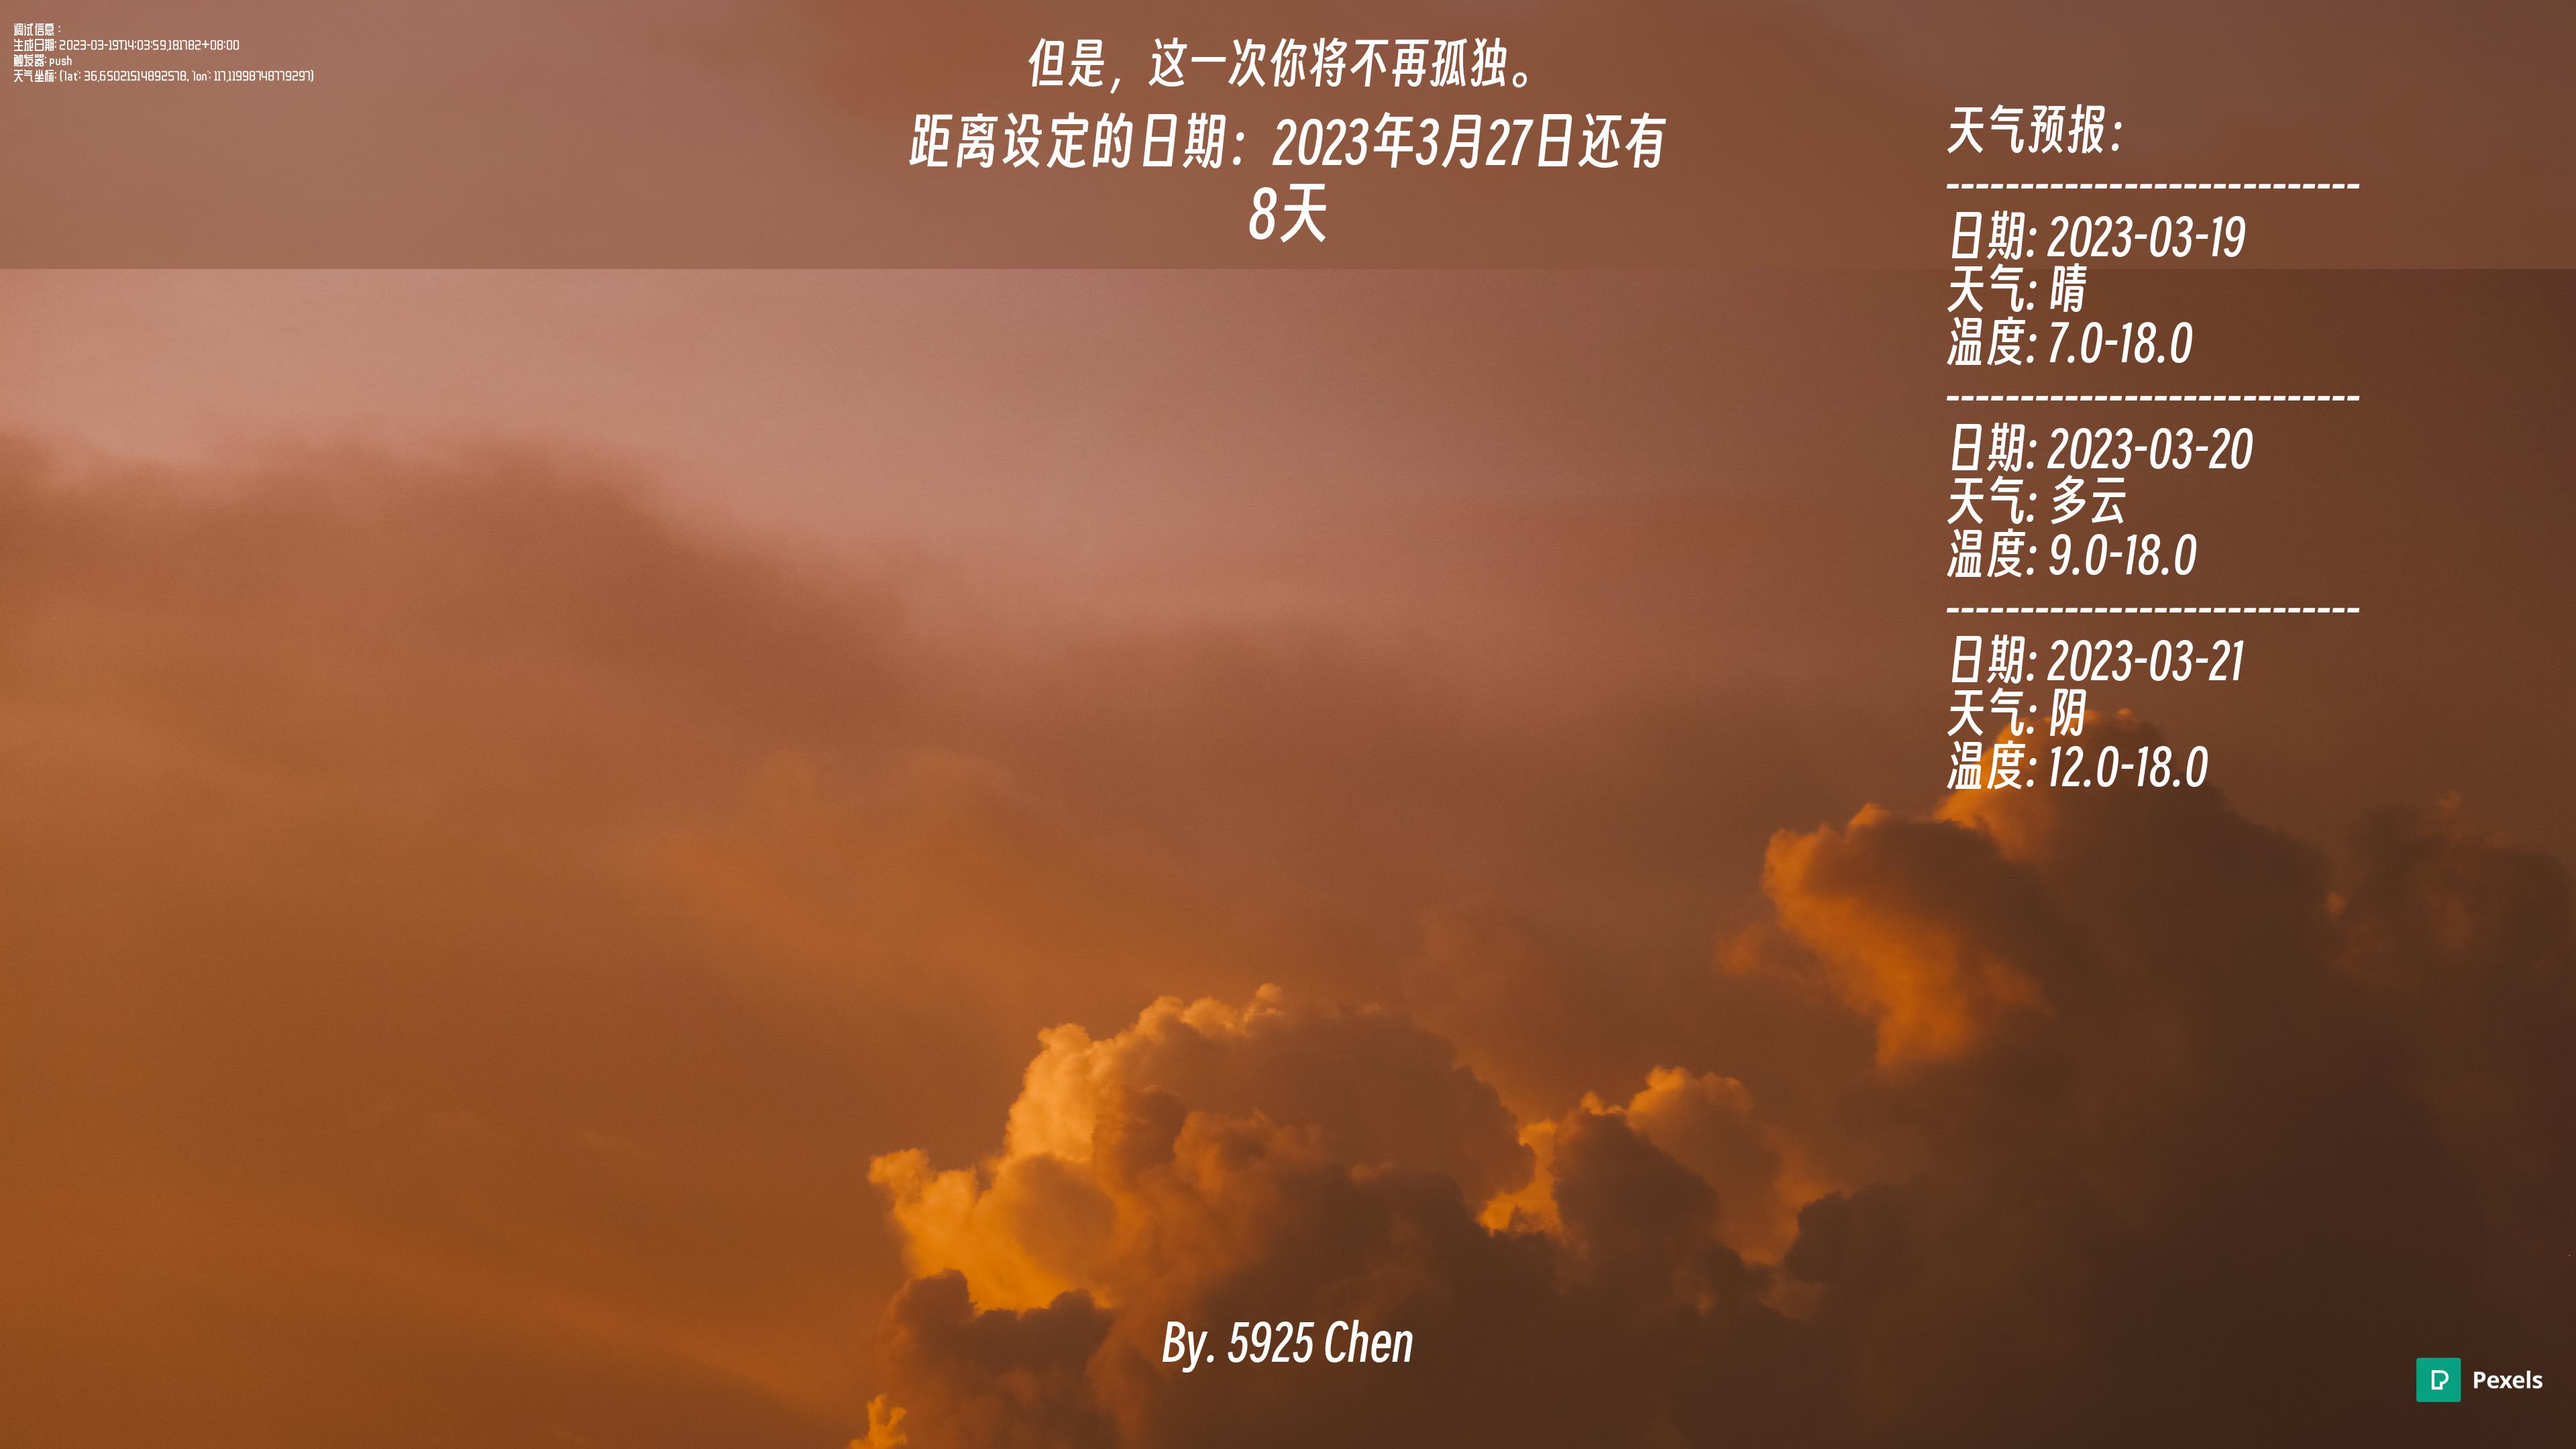
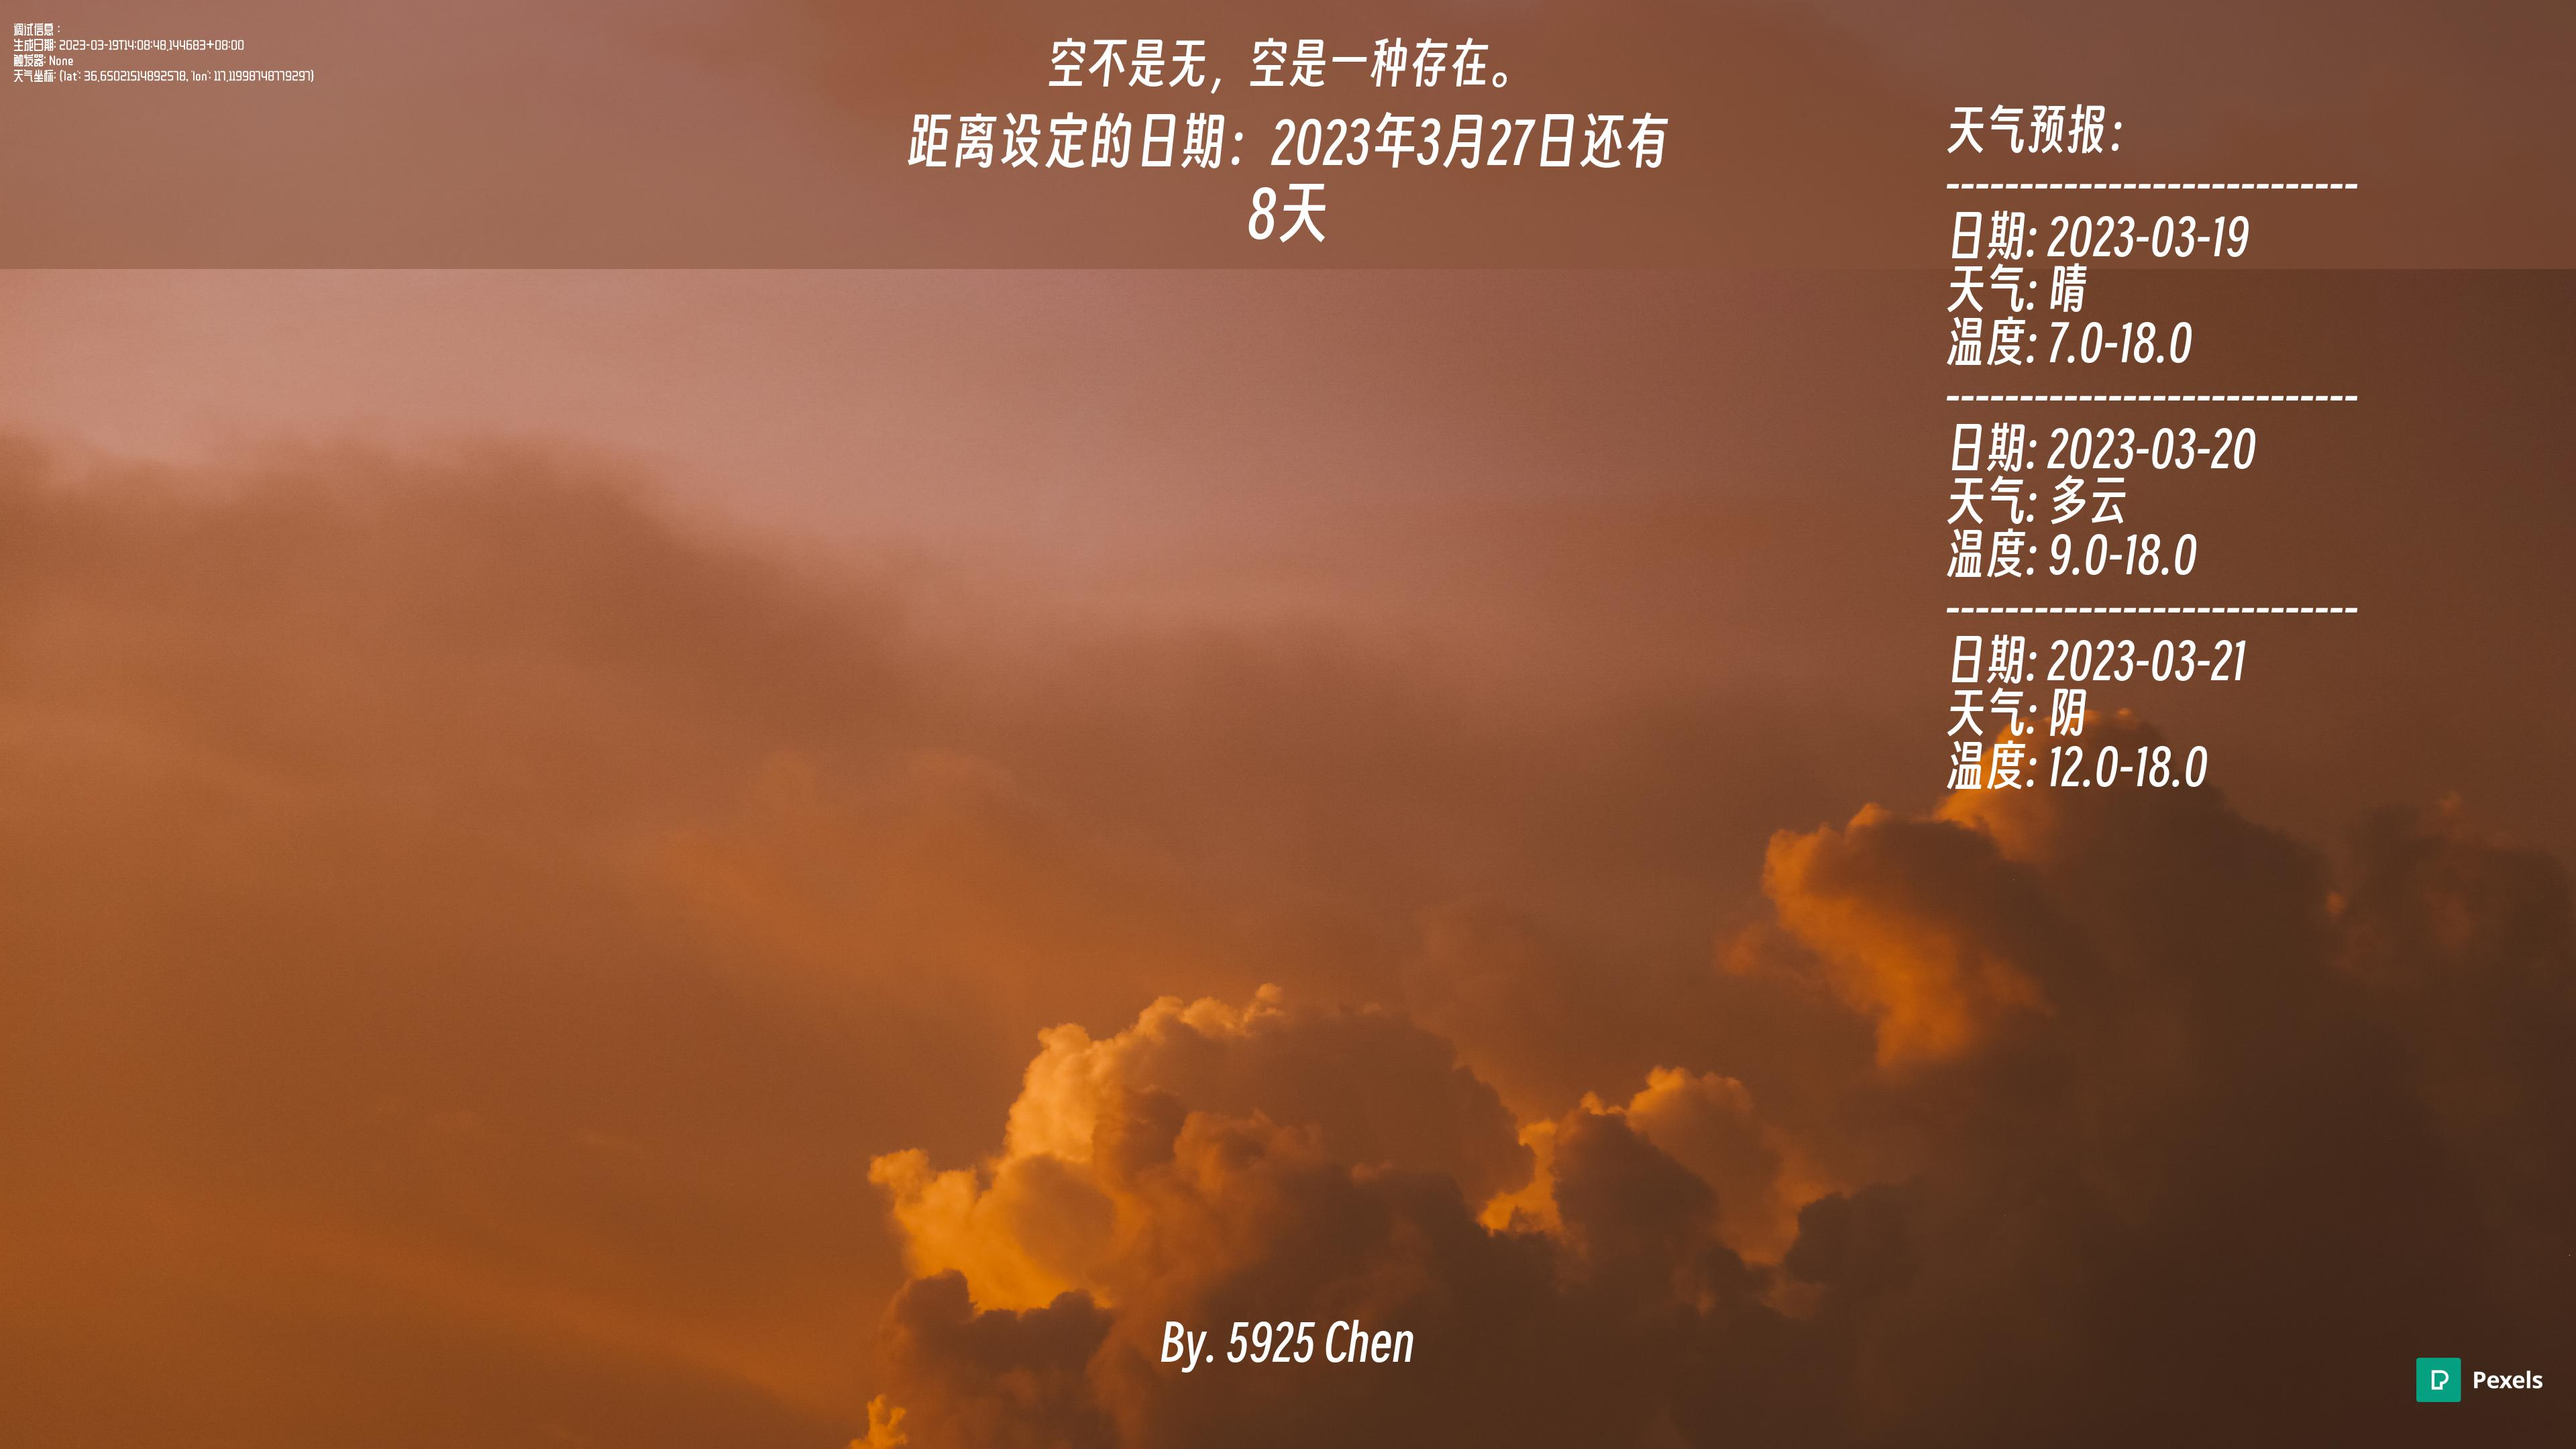
deploy: 13371b12b89cb468cf5d6cb4aef3d1f8516cc6ab

diff --git a/background/index.html b/background/index.html
@@ -340,6 +340,7 @@
 </li>
 </ul>
 <p>Github: <a href="https://github.com/Creep-Among-Projects/Creep-Among-Projects.github.io/tree/master/apps/qod">CAP-Pages/apps/background</a></p>
+<p>Shit-Api: <a href="../backgrounds/api.json">API</a></p>
 <p>Status / 状态:</p>
 <p><a href="https://github.com/Creep-Among-Projects/Creep-Among-Projects.github.io/actions/workflows/bg.yml"><img alt="GitHub Workflow Status" src="https://img.shields.io/github/actions/workflow/status/Creep-Among-Projects/Creep-Among-Projects.github.io/bg.yml?label=BG-GEN&amp;style=for-the-badge&amp;color=66ccff" /></a>
 <a href="https://github.com/Creep-Among-Projects/Creep-Among-Projects.github.io/actions/workflows/MkDocsDeploy"><img alt="GitHub Workflow Status" src="https://img.shields.io/github/actions/workflow/status/Creep-Among-Projects/Creep-Among-Projects.github.io/MkDocsDeploy.yml?label=MKDOCS&amp;style=for-the-badge&amp;color=66ccff" /></a>
@@ -407,6 +408,12 @@
 <td align="center">4870972</td>
 <td align="center">但是，这一次你将不再孤独。</td>
 <td align="center"><a href="../backgrounds/4870972.jpg">图片链接</a></td>
+</tr>
+<tr>
+<td align="center">2023-03-19</td>
+<td align="center">2909077</td>
+<td align="center">此生的约定，白头亦不负</td>
+<td align="center"><a href="../backgrounds/2909077.jpg">图片链接</a></td>
 </tr>
 </tbody>
 </table>
